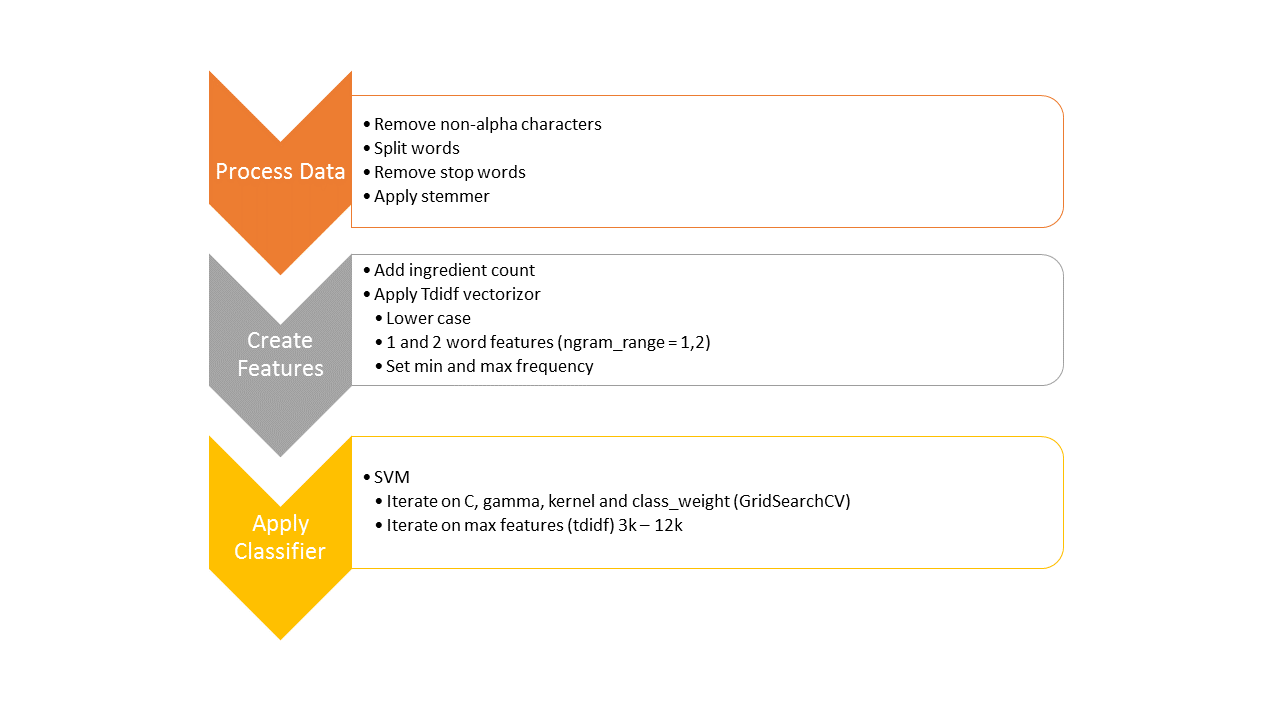
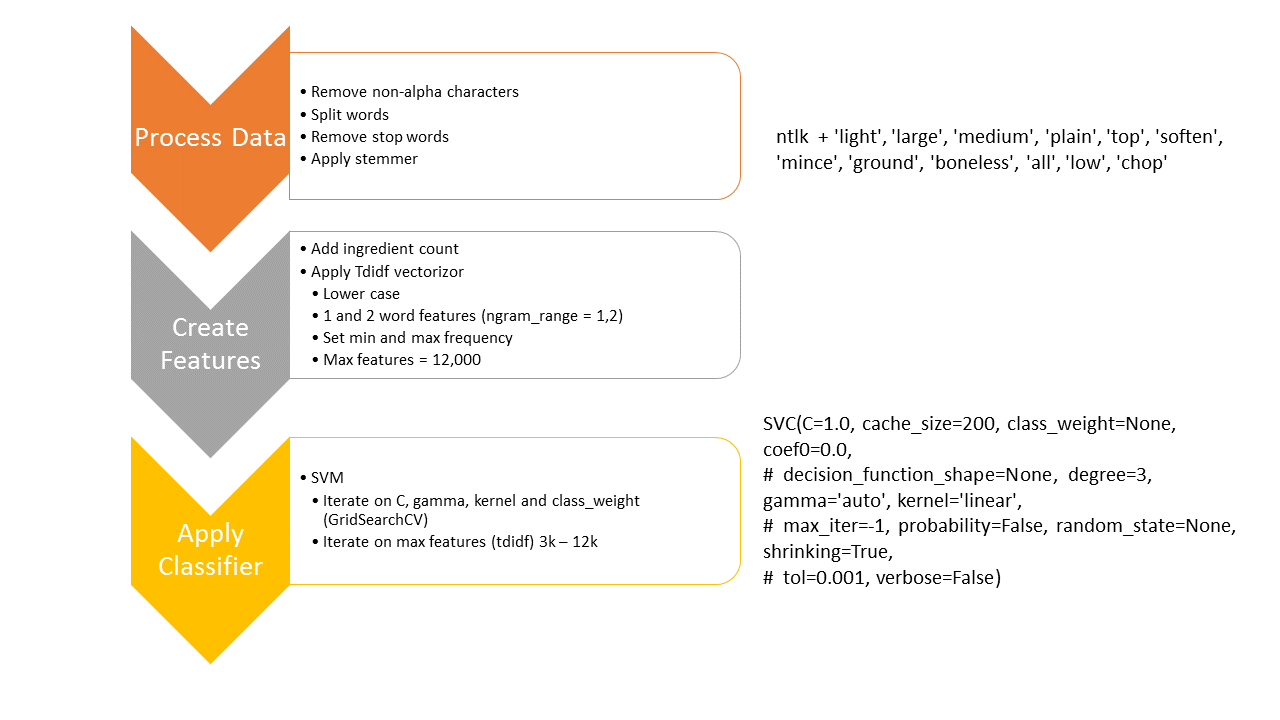
update graphics

Changed region(s): [[0.0938, 0.0306, 0.9062, 0.9167], [0.5938, 0.1833, 0.9375, 0.2444], [0.9062, 0.7028, 0.9688, 0.7333]]

diff --git a/Readme.md b/Readme.md
@@ -166,6 +166,11 @@ We graphed each cuisine and the number of ingredients used in each of their reci
 | vietnamese |     0 <br/> 0.012 <br/> 0.000 <br/> 0.000 <br/> 0.000|
 
 ## **Week 4**: Submit 1 Kaggle (End 6/2)
+###Pipeline
 ![pipeline](homework/wk3_pipeline.png)
+###Kaggle result
 ![kaggle submission](homework/kaggleSub1.png)
+###Confusion Matrix
+![confusion matrix](homework/wk3_cm.png)
+[optimization](homework/wk3_optimize.png)
 
